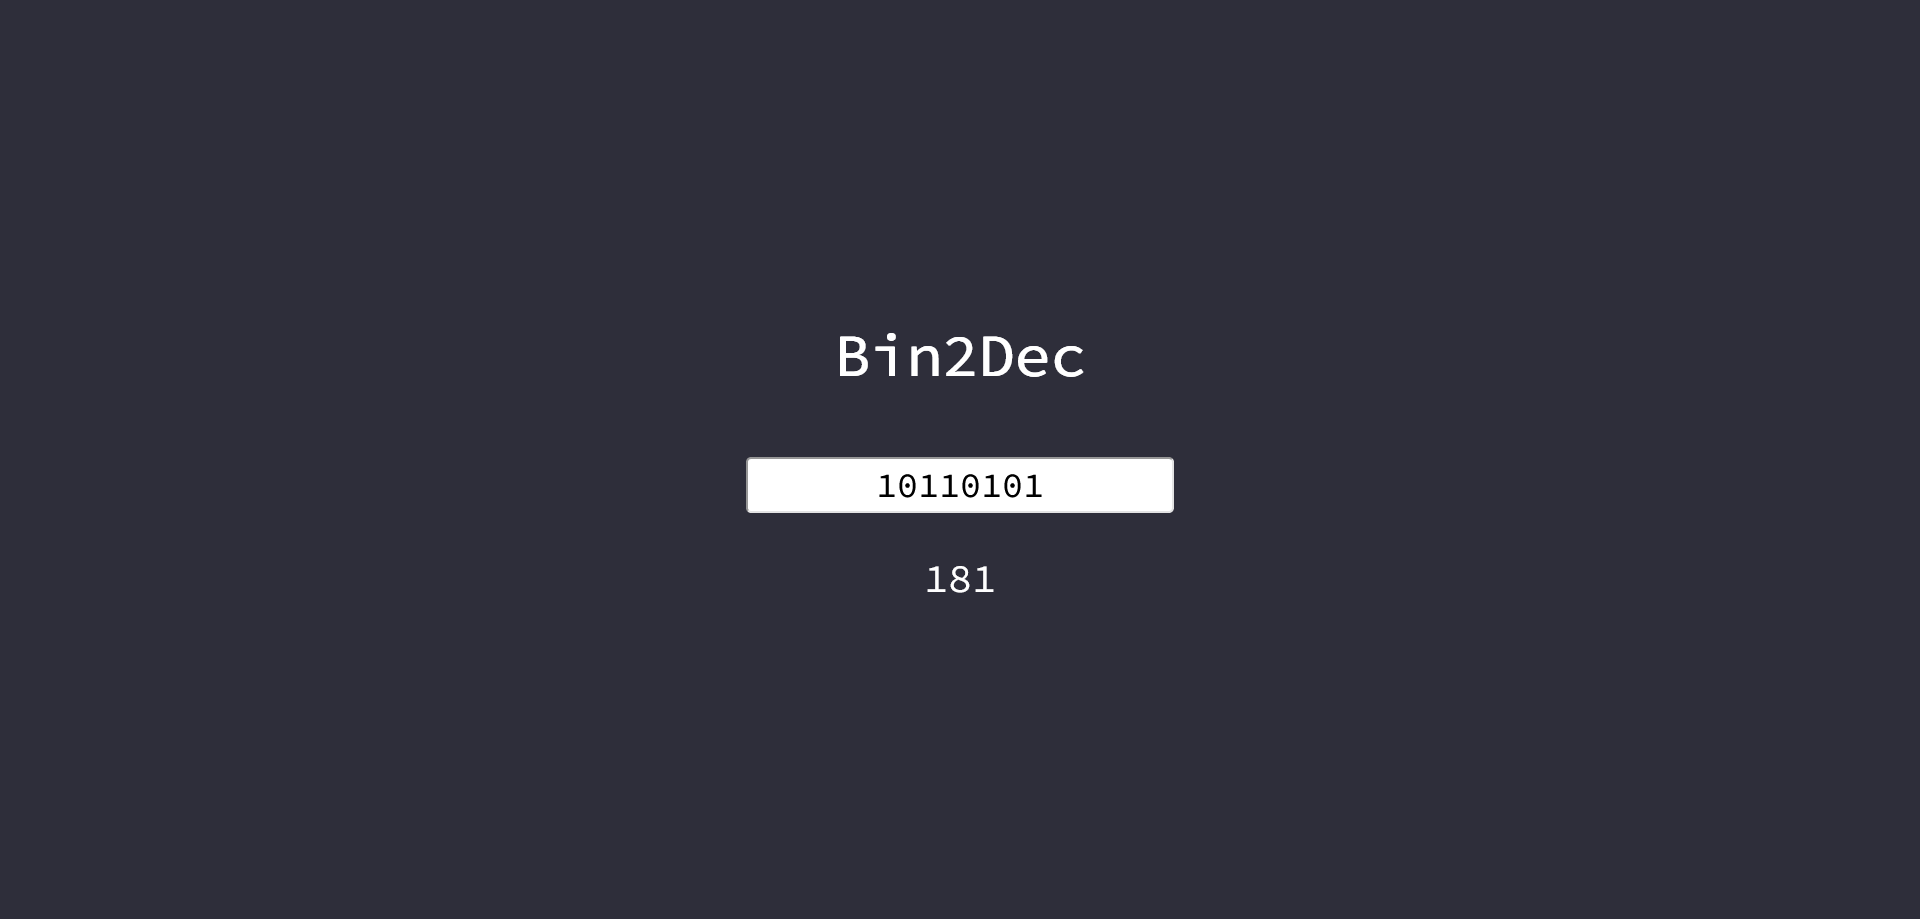
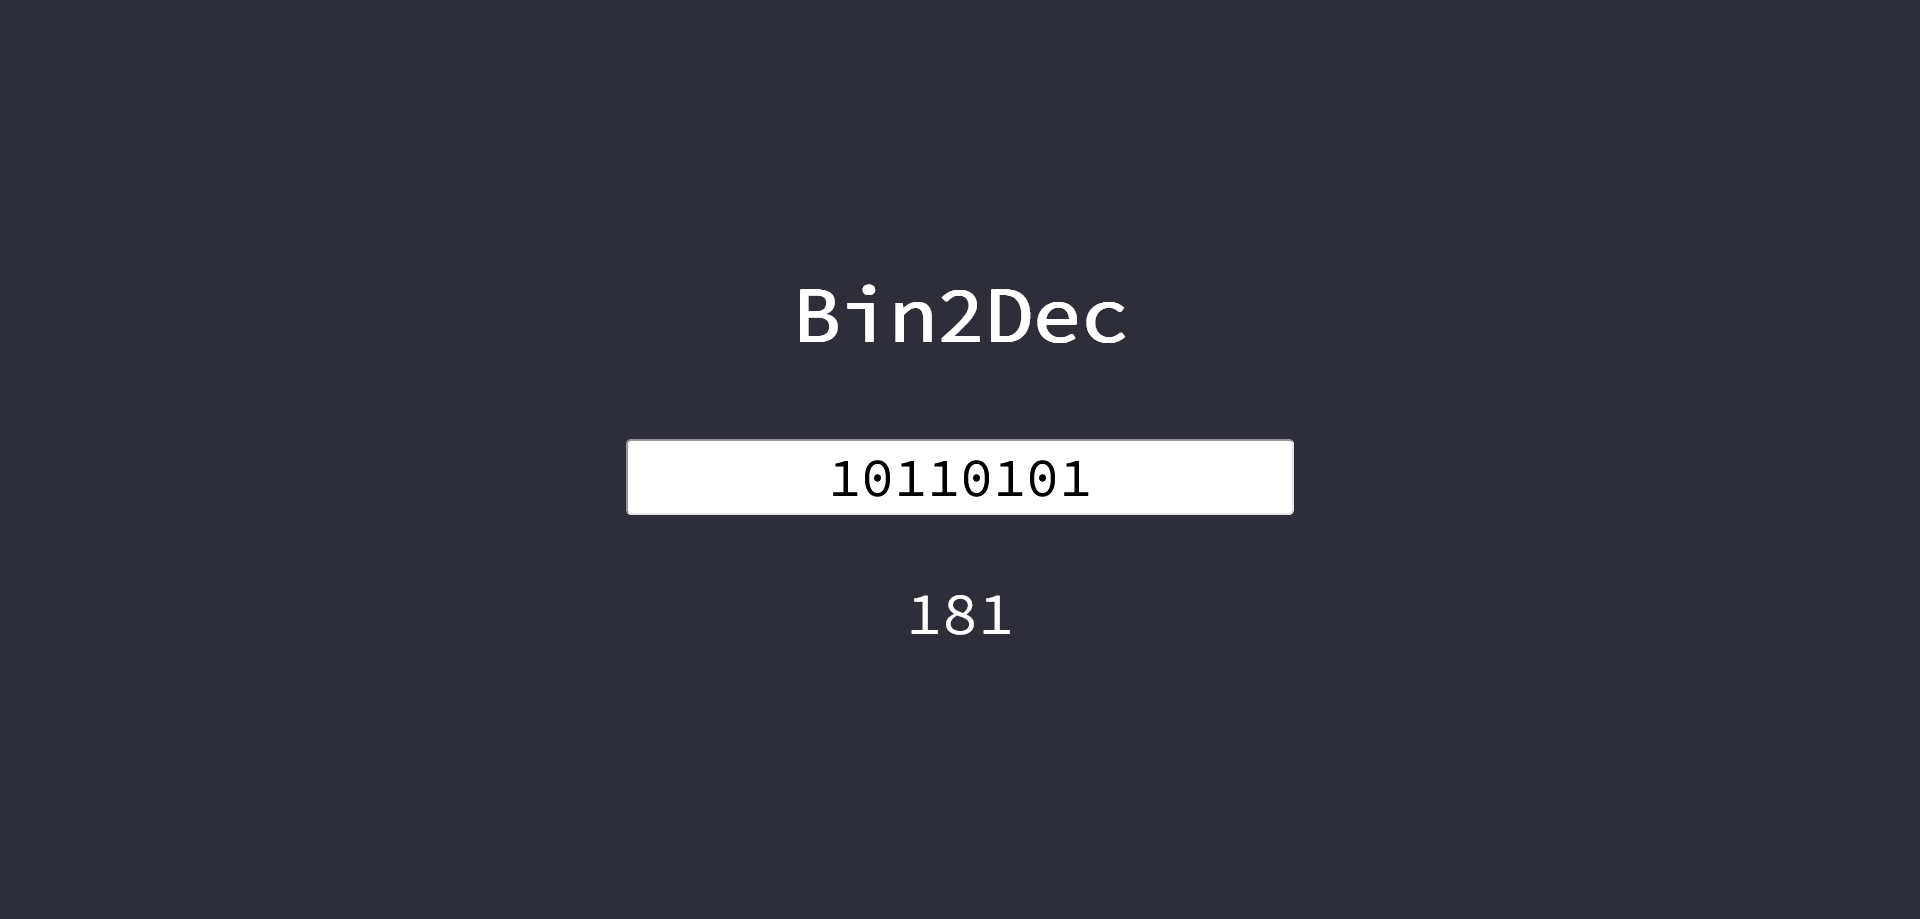
Update README

Changed region(s): [[0.3125, 0.457, 0.6875, 0.5789], [0.4062, 0.3047, 0.5938, 0.4266], [0.4688, 0.6094, 0.5312, 0.7008]]

diff --git a/src/App.vue b/src/App.vue
@@ -39,18 +39,18 @@ export default {
 
 <style scoped>
 h1 {
-  font-size: 60px;
-  margin-bottom: 65px;
+  font-size: 80px;
+  margin-bottom: 75px;
 }
 
 p {
-  font-size: 40px;
+  font-size: 60px;
 }
 
 input {
   border-radius: 5px;
-  height: 50px;
-  font-size: 35px;
+  height: 70px;
+  font-size: 55px;
   text-align: center;
 }
 </style>
